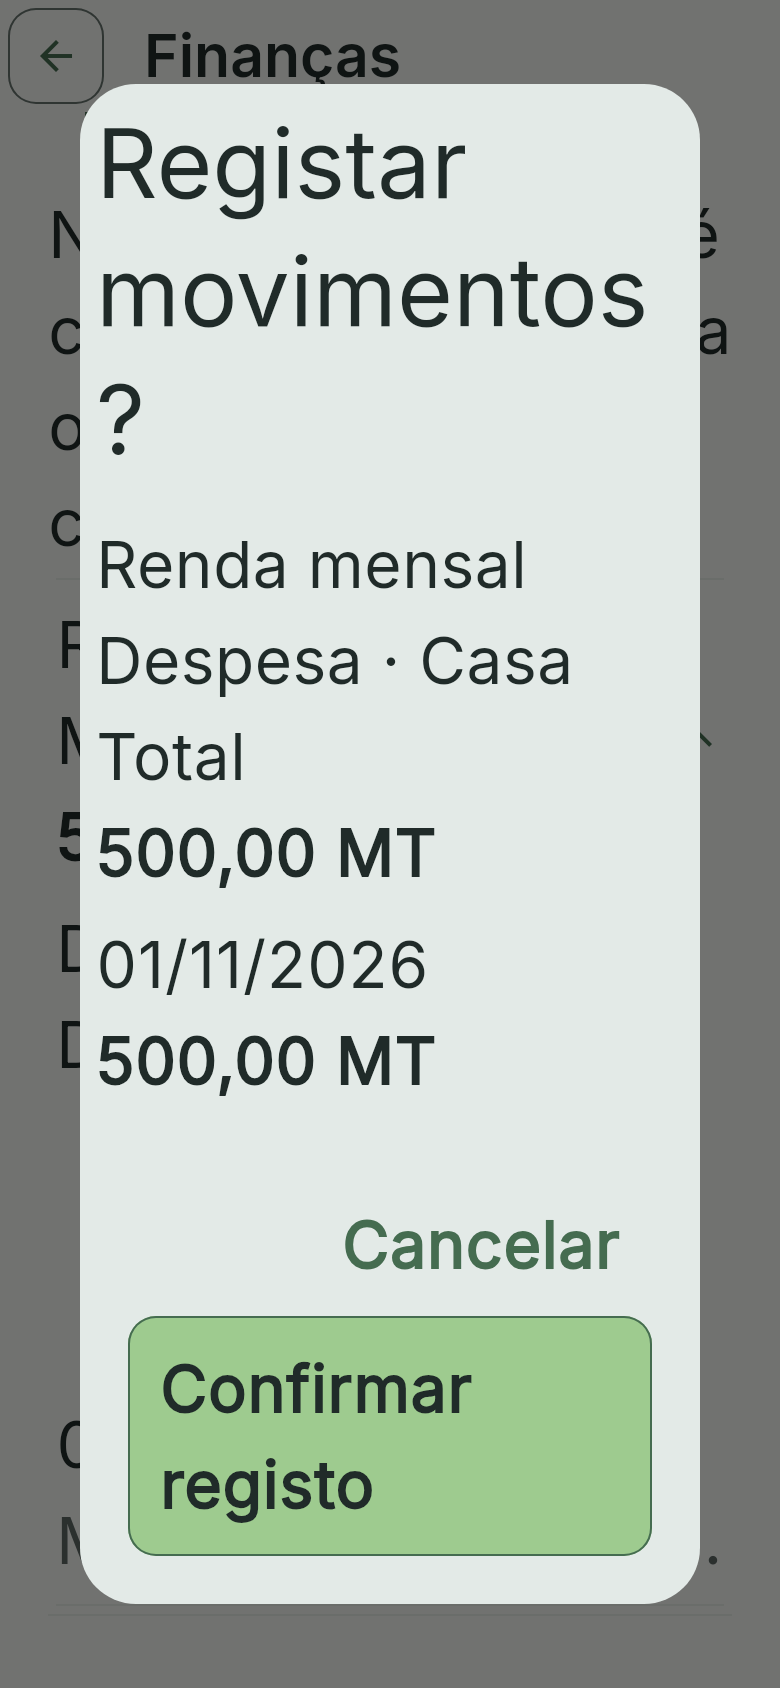
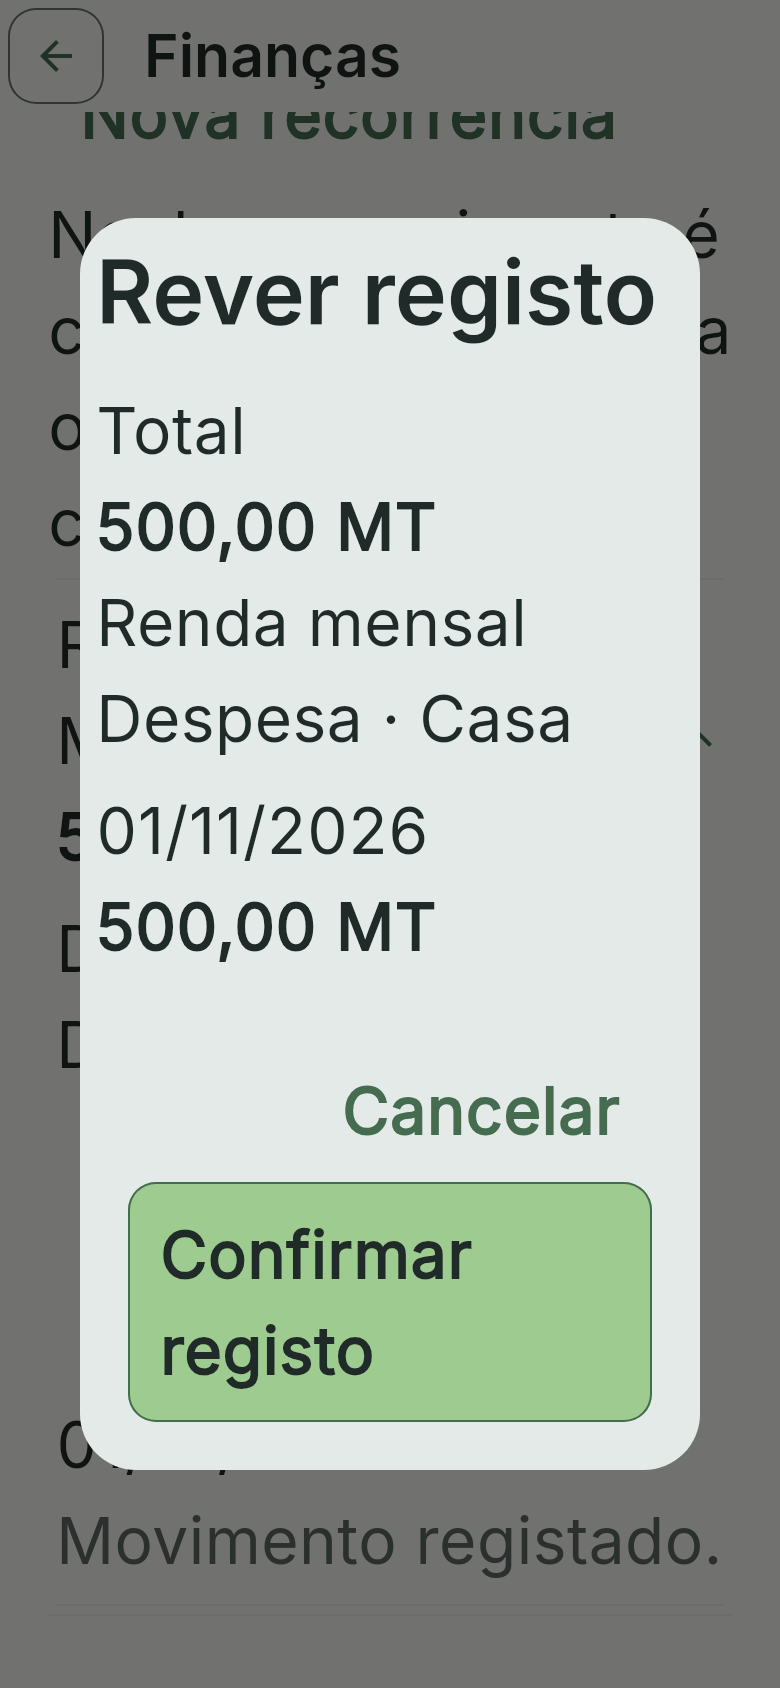
fix: tornar total visível e isolar estado dos valores financeiros

diff --git a/lib/features/finance/finance_panel.dart b/lib/features/finance/finance_panel.dart
@@ -58,7 +58,7 @@ class _FinancePanelState extends ConsumerState<FinancePanel> {
       final yes = await showDialog<bool>(
         context: context,
         builder: (c) => AlertDialog(
-          title: const Text('Registar movimentos?'),
+          title: Text('Rever registo', style: Theme.of(c).textTheme.titleLarge),
           content: SizedBox(
             width: MediaQuery.sizeOf(context).width,
             child: SingleChildScrollView(
@@ -66,16 +66,16 @@ class _FinancePanelState extends ConsumerState<FinancePanel> {
                 mainAxisSize: MainAxisSize.min,
                 crossAxisAlignment: CrossAxisAlignment.start,
                 children: [
-                  Text(preview.title),
-                  Text(
-                    '${preview.kind == 'income' ? 'Receita' : 'Despesa'} · ${preview.category}',
-                  ),
                   FinanceAmount(
                     label: 'Total',
                     cents:
                         BigInt.from(preview.amountCents) *
                         BigInt.from(preview.days.length),
                     currency: preview.currency,
+                  ),
+                  Text(preview.title),
+                  Text(
+                    '${preview.kind == 'income' ? 'Receita' : 'Despesa'} · ${preview.category}',
                   ),
                   for (final day in preview.days)
                     ListTile(
@@ -186,13 +186,16 @@ class _FinancePanelState extends ConsumerState<FinancePanel> {
       String subtitle,
       List<Widget> children,
     ) => focus(
-      ExpansionTile(
+      KeyedSubtree(
         key: ValueKey(id),
-        tilePadding: EdgeInsets.zero,
-        title: Text(title),
-        subtitle: Text(subtitle),
-        expandedCrossAxisAlignment: CrossAxisAlignment.stretch,
-        children: children,
+        child: ExpansionTile(
+          key: PageStorageKey(id),
+          tilePadding: EdgeInsets.zero,
+          title: Text(title),
+          subtitle: Text(subtitle),
+          expandedCrossAxisAlignment: CrossAxisAlignment.stretch,
+          children: children,
+        ),
       ),
     );
     final summary = Padding(

diff --git a/test/phase4c3d_finance_test.dart b/test/phase4c3d_finance_test.dart
@@ -412,6 +412,16 @@ void main() {
       await pressFinance(t, find.text('Renda mensal'));
       await pressFinance(t, find.text('Rever vencimentos'));
       expect(find.text('01/11/2026'), findsOneWidget);
+      expect(
+        find
+            .descendant(
+              of: find.byType(AlertDialog),
+              matching: find.text('500,00 MT'),
+            )
+            .first
+            .hitTestable(),
+        findsOneWidget,
+      );
       expect(await financeSnapshot(repo), before);
       await pressFinance(t, find.widgetWithText(TextButton, 'Cancelar'));
       expect(await financeSnapshot(repo), before);
@@ -454,6 +464,10 @@ void main() {
       addTearDown(db.close);
       final repo = TudoAkiRepository(db);
       await seedFinance(repo, longValues: true);
+      final budget = (await repo.all('Budgets')).single;
+      await repo.save('Budgets', {
+        'limit_cents': 9007199254740991,
+      }, id: budget['id'] as int);
       final before = await financeSnapshot(repo);
       await bootFinance(t, repo);
       final expected = formatMoney(
@@ -491,6 +505,25 @@ void main() {
       expect(t.getSemantics(result).label, contains(expected));
       expect(t.getSemantics(result).label, contains('Metical (MZN)'));
       semantics.dispose();
+      await expandFinance(t, 'finance-budgets');
+      final limit = find.descendant(
+        of: find.byKey(const ValueKey('finance-budgets')),
+        matching: find.byWidgetPredicate(
+          (w) => w is FinanceAmount && w.label == 'Limite',
+        ),
+      );
+      final limitScroll = t.widget<SingleChildScrollView>(
+        find.descendant(
+          of: limit,
+          matching: find.byType(SingleChildScrollView),
+        ),
+      );
+      expect(
+        limitScroll.controller!.offset,
+        0,
+        reason:
+            'A newly revealed amount must not inherit the vertical page offset.',
+      );
       expect(await financeSnapshot(repo), before);
       expect(t.takeException(), isNull);
     },

diff --git a/lib/features/finance/finance_amount.dart b/lib/features/finance/finance_amount.dart
@@ -22,7 +22,7 @@ class FinanceAmount extends StatefulWidget {
 }
 
 class _FinanceAmountState extends State<FinanceAmount> {
-  final _scroll = ScrollController();
+  final _scroll = ScrollController(keepScrollOffset: false);
   @override
   void dispose() {
     _scroll.dispose();

diff --git a/docs/PHASE4C3D_REPORT.md b/docs/PHASE4C3D_REPORT.md
@@ -79,9 +79,9 @@ Orçamentos mantêm categoria normalizada/mês/moeda, unicidade e apenas despesa
 
 Poupanças mantêm alvo e contribuições em **todos os meses**, da mesma moeda e associação. Fixture: 100025 + 5000 = **105025 cêntimos**, inalterado ao consultar outro mês. Criar, editar, contribuir e eliminar continuam disponíveis; eliminar preserva contribuições sem ligação. O teste antigo de histórico órfão permanece aprovado.
 
-Recorrências continuam a exigir Rever vencimentos → confirmação explícita. Abrir, expandir, cancelar e navegar não emitem movimentos. Mantidos lotes até 24, revisão da regra, idempotência, pausa, bloqueio de início/frequência após ocorrências e histórico (incluindo movimento eliminado). Na fixture, Outubro já registado é preservado e Novembro só entra após confirmação; repetir a revisão não duplica.
+Recorrências continuam a exigir Rever vencimentos → confirmação explícita. Abrir, expandir, cancelar e navegar não emitem movimentos. Mantidos lotes até 24, revisão da regra, idempotência, pausa, bloqueio de início/frequência após ocorrências e histórico (até 12 vencimentos recentes por regra, como antes, incluindo movimento eliminado). Na fixture, Outubro já registado é preservado e Novembro só entra após confirmação; repetir a revisão não duplica.
 
-A confirmação recebeu apenas uma largura de conteúdo delimitada e montantes em linhas próprias, para suportar o novo componente sem erro de dimensões intrínsecas. Chamadas previewRecurring/recordRecurring e guardas de confirmação permanecem as existentes.
+A confirmação recebeu uma largura de conteúdo delimitada e montantes em linhas próprias, para suportar o novo componente sem erro de dimensões intrínsecas. Na revisão manual a 320 dp/200%, o total ainda ficava abaixo da área visível: o título passou a Rever registo e o total passou para o início do conteúdo. Um teste verifica que o montante total é atingível/visível antes de confirmar, além das verificações de cancelamento/idempotência. Chamadas previewRecurring/recordRecurring e guardas de confirmação permanecem as existentes.
 
 ## 9. Capturas reais Flutter
 
@@ -128,6 +128,10 @@ Produção: lib/features/finance/finance_screen.dart e finance_amount.dart (novo
 Testes/diagnóstico: test/phase4c3d_finance_test.dart, test/support/finance_fixture.dart, test/finance_widget_test.dart, test/currency_widget_test.dart e tool/capture_finance.dart. Documentação/evidência: este relatório, docs/ux/phase4c3d/* e docs/ux/previews/phase4c3d/*. Workflows Flutter/Android: só activação do branch. A lista exacta consta do diff do commit.
 
 ## 15. Regressões encontradas e corrigidas
+
+- O esforço adicional de expandir um orçamento de valor elevado reproduziu uma colisão de PageStorage entre estado booleano da expansão e deslocação numérica, causando erro de tipos. Cada expansão recebeu uma PageStorageKey própria e os valores horizontais usam posições efémeras sem guardar scroll nesse armazenamento. O teste verifica que um novo valor começa no início; não se alterou persistência financeira.
+
+- A revisão visual posterior detectou que o total da confirmação ficava fora do primeiro viewport a 320 dp/200%, embora o layout já não lançasse excepção. Um teste de hit testing do montante falhou antes da correcção e passou depois: total no início e título mais curto. Mantidos os mesmos vencimentos, moeda, montantes e confirmação obrigatória. As capturas e a suite completa foram repetidas sobre esta correcção.
 
 - Baseline de esforço: cabeçalhos/valores em trailing causavam overflow a 320 dp/200%, e quatro casos elevados não completavam layout. Linhas abertas com montante separado e acesso horizontal explícito resolvem sem reduzir fonte ou alterar cêntimos.
 - Selector fechado cortava o código da moeda ampliado; código ISO passa a ficar integralmente visível, mantendo nomes completos no menu.
